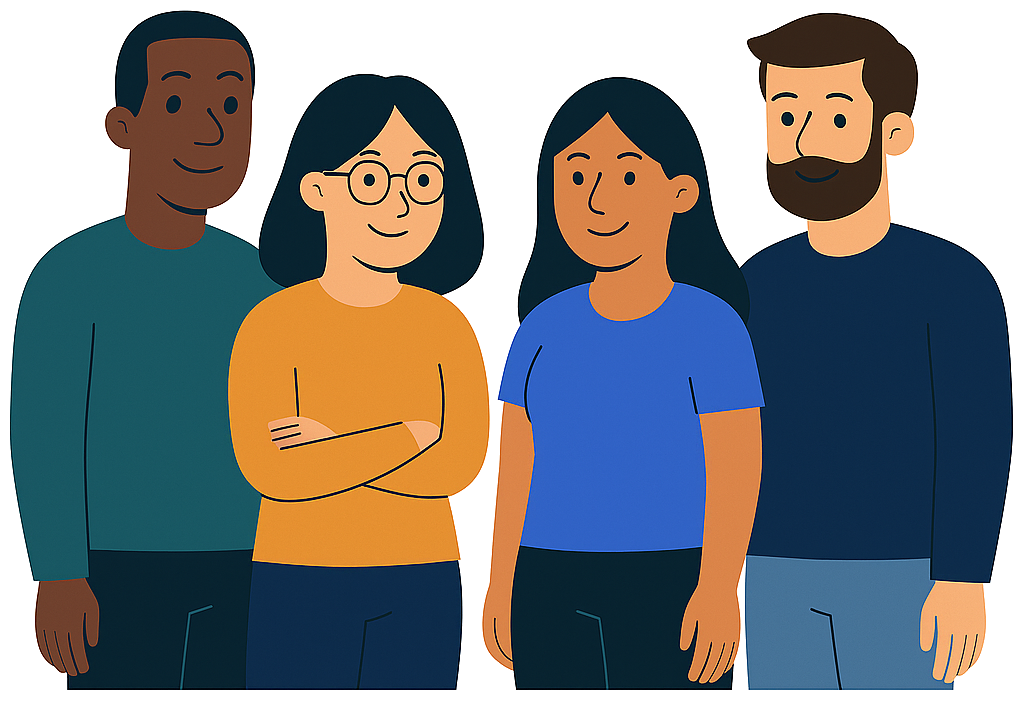
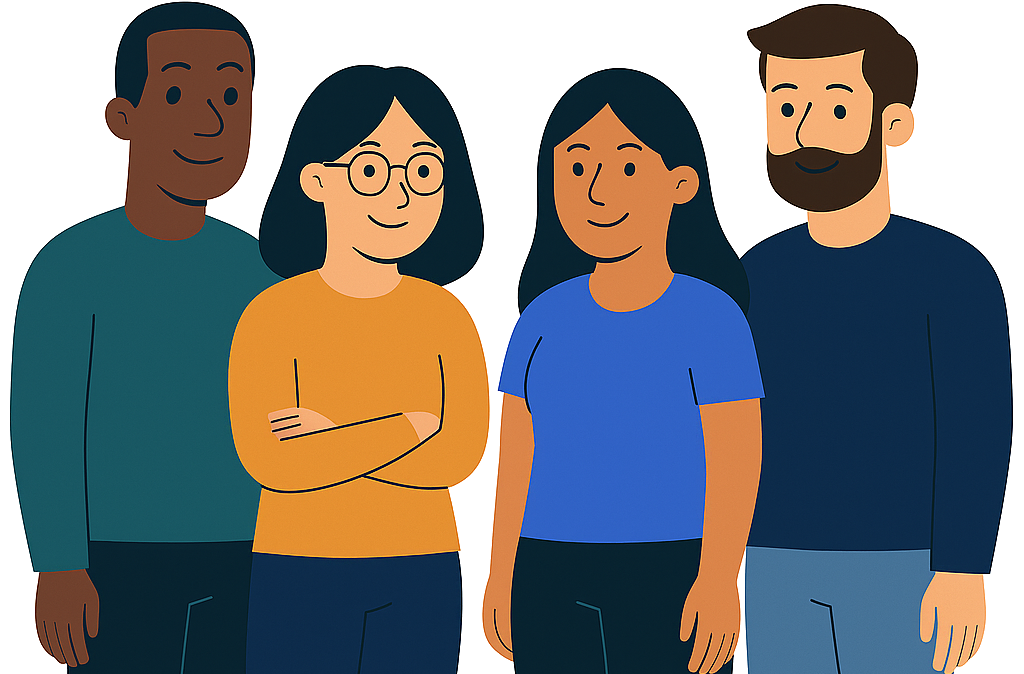
[fix]: Cambia el color del encabezado y ajusta el diseño de la sección del equipo

diff --git a/styles/nosotros.css b/styles/nosotros.css
@@ -64,7 +64,7 @@ hr {
 }
 
 .section__div h3 {
- color: var(--color-primario);
+ color: var(--color-secundario);
  font-weight: 400;
  margin: 5% 0;
  font-size: 1.25em;
@@ -188,6 +188,10 @@ hr {
 }
 
 @media screen and (min-width: 60em) {
+ hr {
+  width: 95%;
+ }
+
  .section__titulo {
   font-size: 3em;
   padding: 0 0 0 0.2em;
@@ -220,9 +224,26 @@ hr {
   border: 1px solid var(--color-bordes);
  }
 
+ .section__equipo {
+  flex-direction: column;
+  padding-bottom: 10em;
+ }
+
  .section__equipo .section__div {
   width: 40%;
   line-height: 3em;
+ }
+
+ .section__div--grillado {
+  display: flex;
+  flex-direction: row;
+  padding: 0 3em;
+  padding-top: 2em;
+ }
+
+ .section__div h3 {
+  font-size: 3em;
+  /* margin-left: 1em; */
  }
 
  .div__dev strong {
